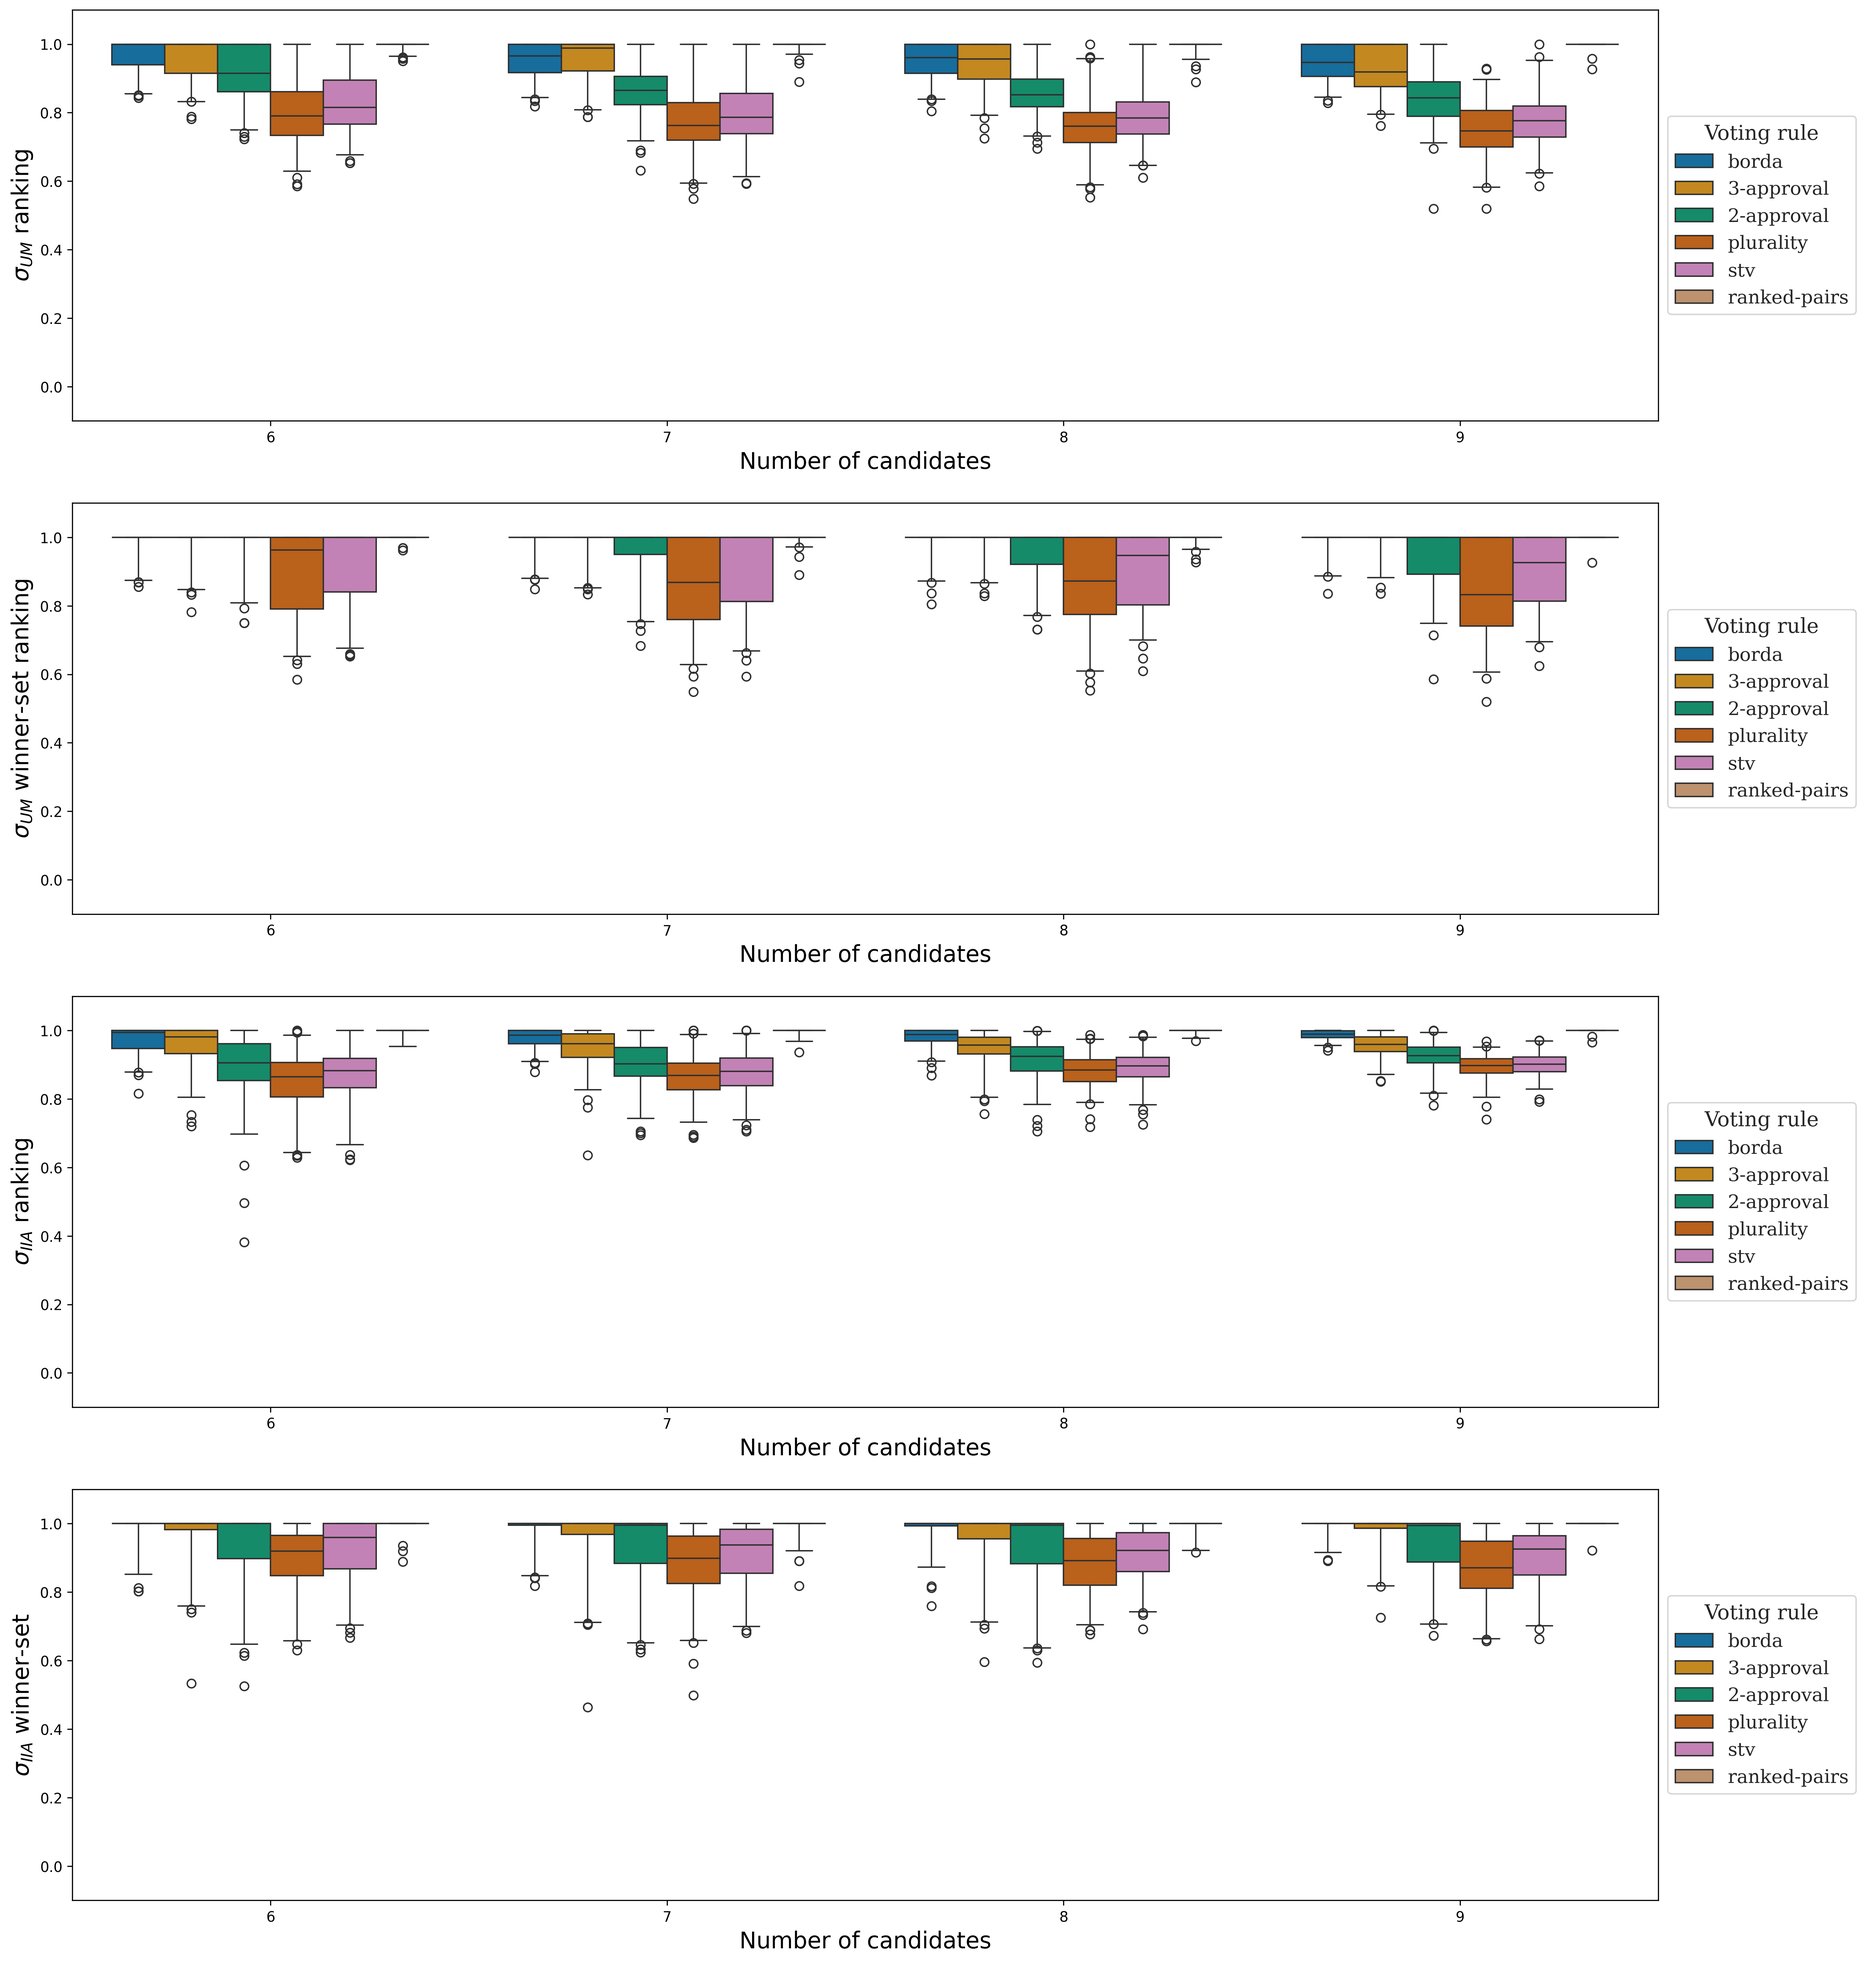
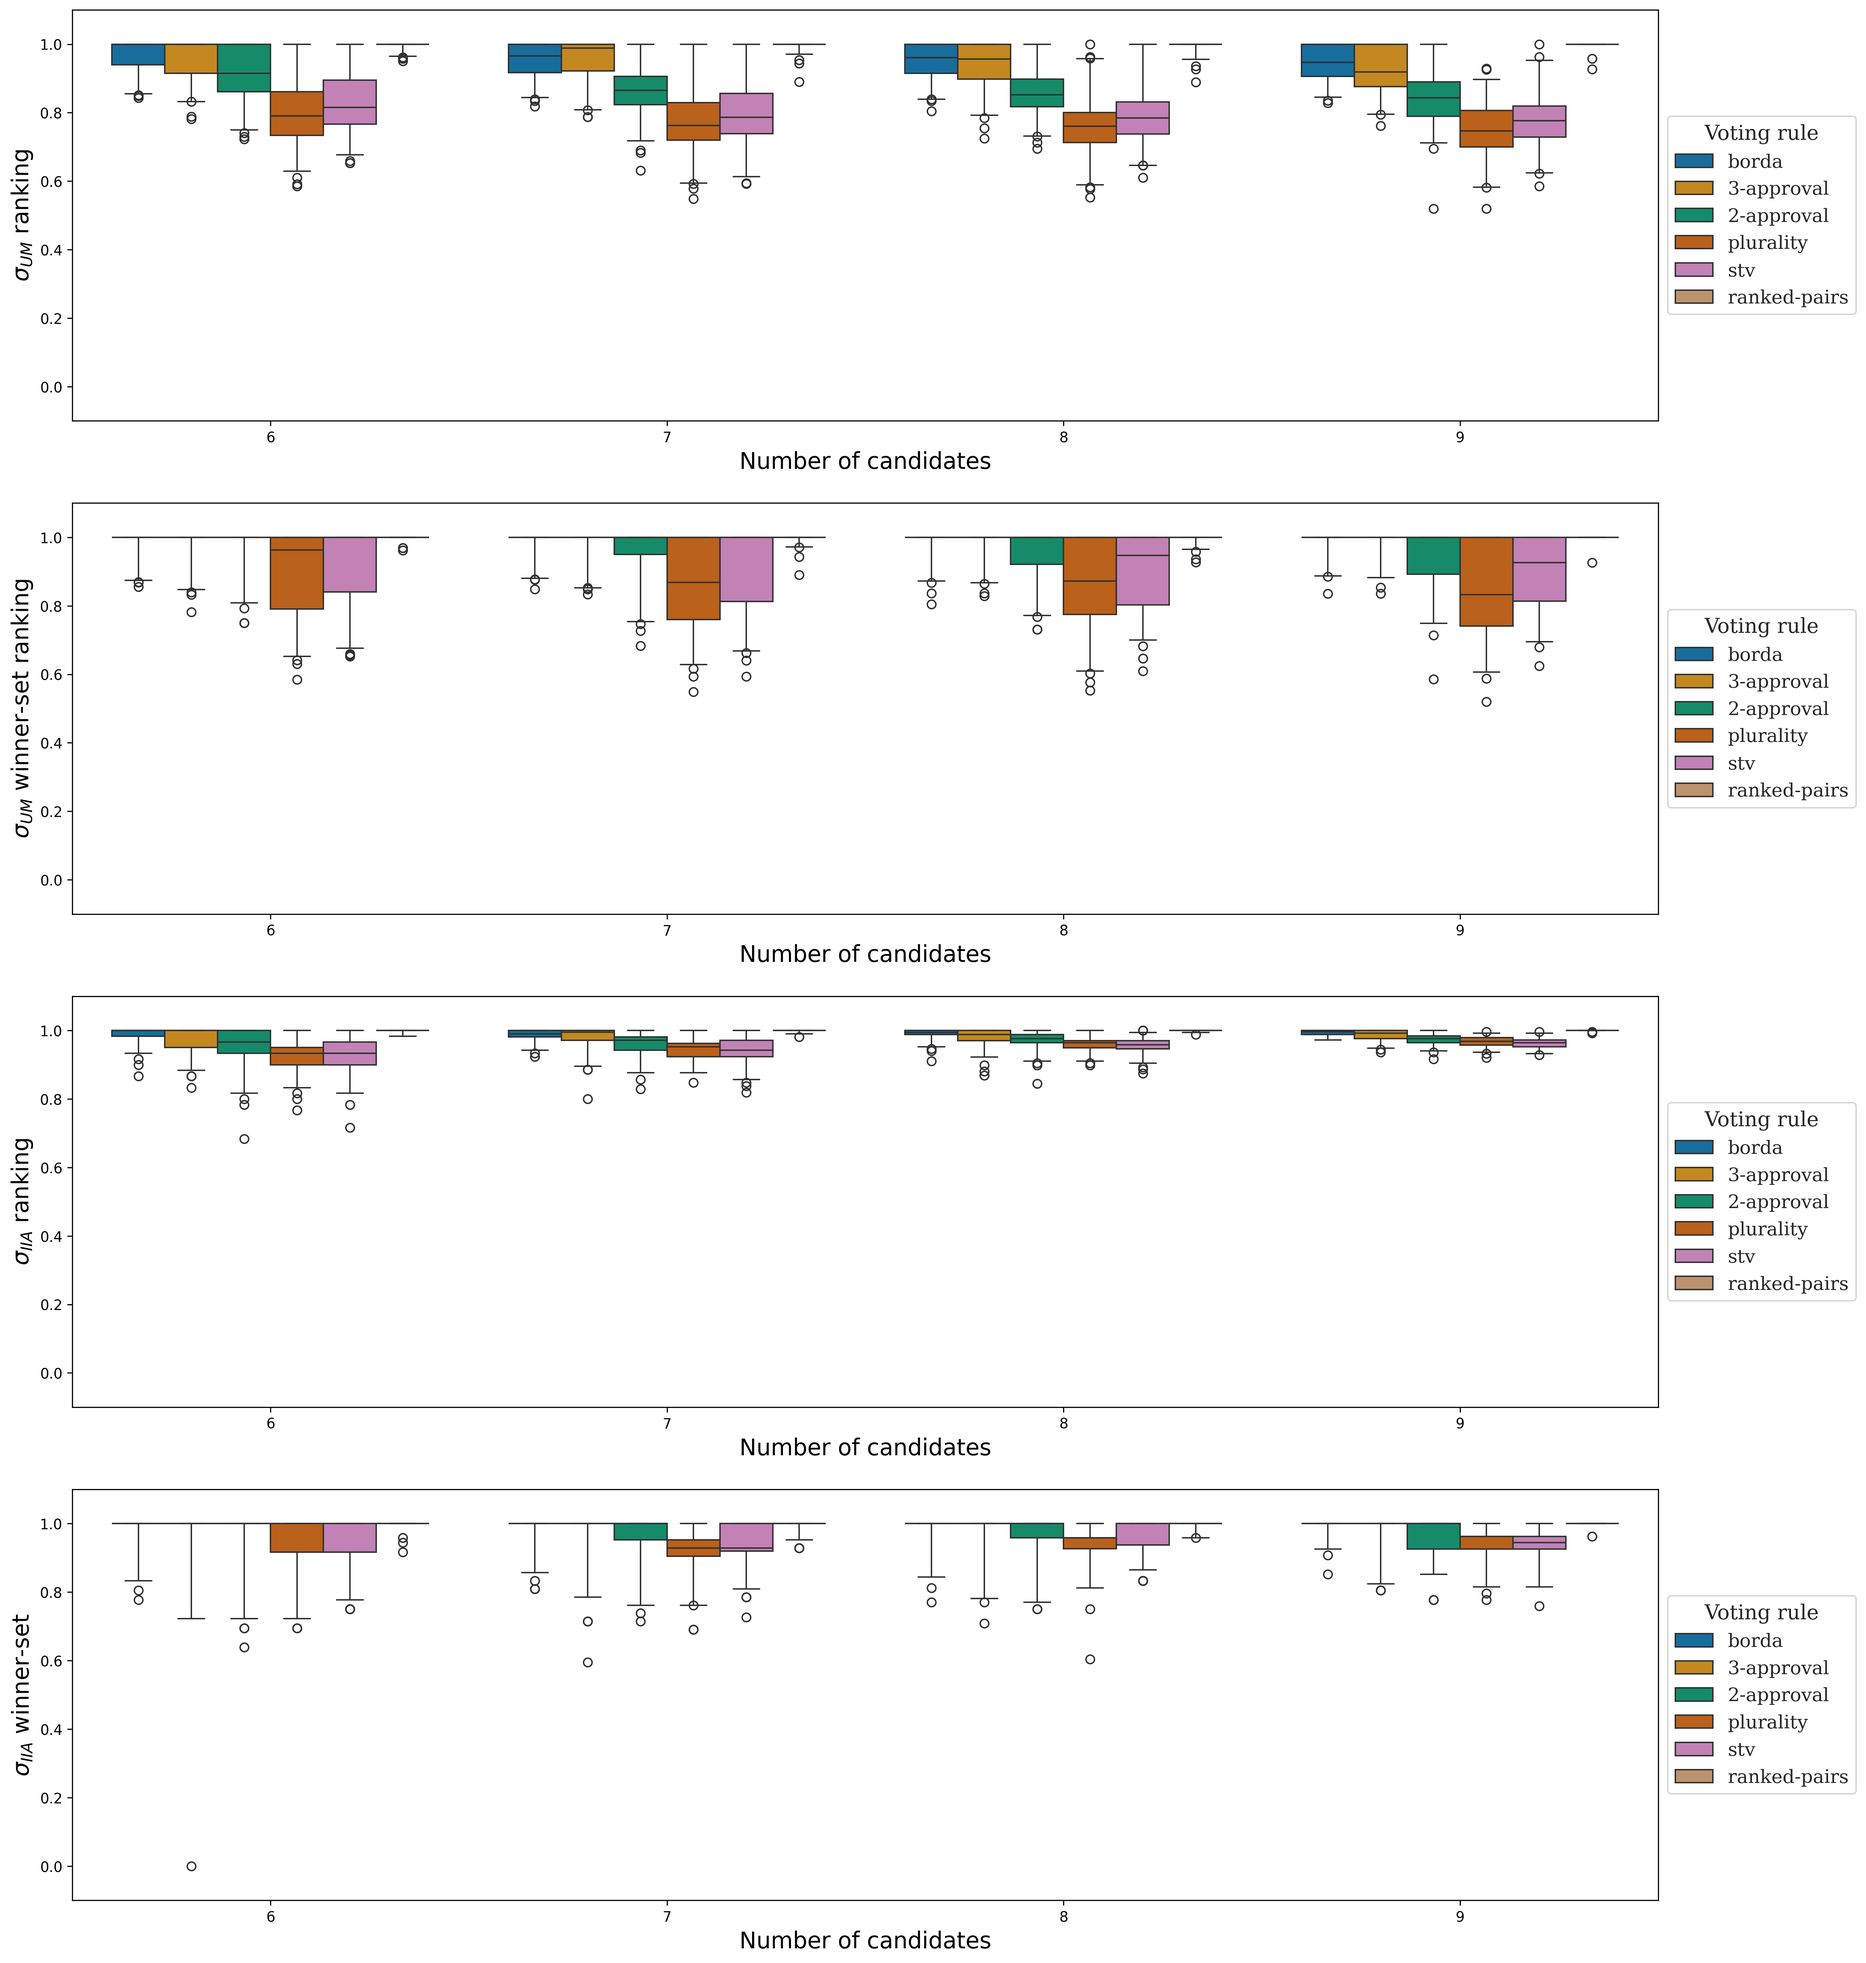
Revert scottish plots to previous definition until we are sure

diff --git a/pipelines/scottish/create_scottish_outputs_limited.py b/pipelines/scottish/create_scottish_outputs_limited.py
@@ -149,11 +149,11 @@ def main(n_cand_list=list(range(6, 10))):
             "$\\sigma_{UM}$ winner-set ranking",
         ),
         (
-            f"sigma_IIA_all_subset_average_{tiebreak}",
+            f"sigma_IIA_average_{tiebreak}",
             "$\\sigma_{IIA}$ ranking",
         ),
         (
-            f"sigma_IIA_winner_set_all_subset_average_{tiebreak}",
+            f"sigma_IIA_winner_set_average_{tiebreak}",
             "$\\sigma_{IIA}$ winner-set",
         ),
     ]
